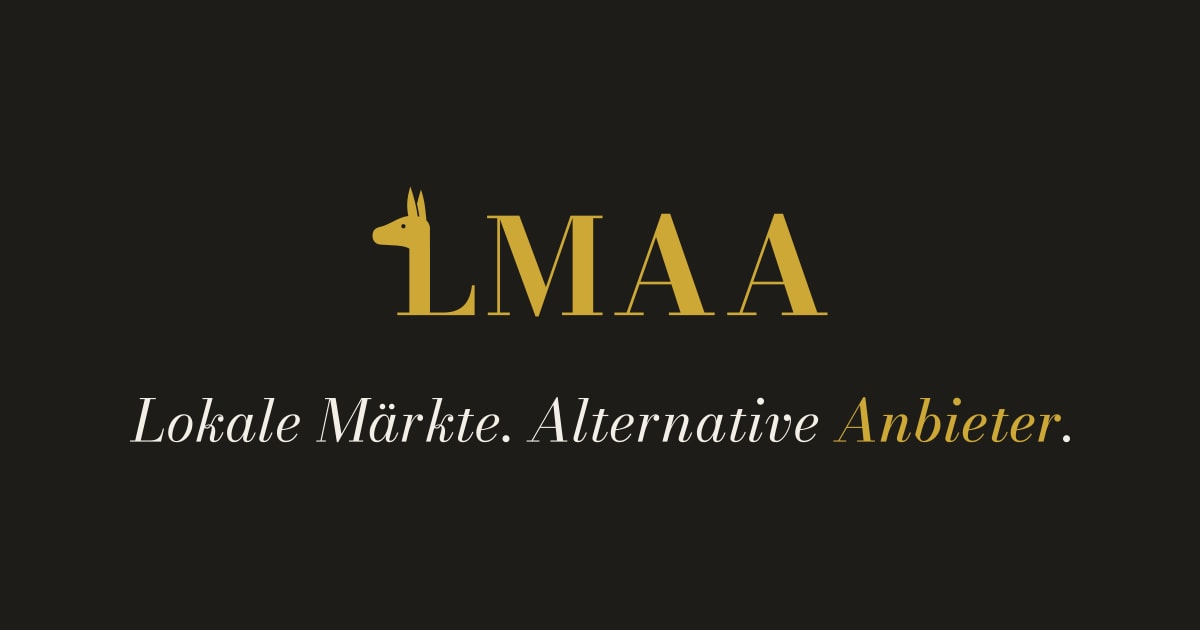
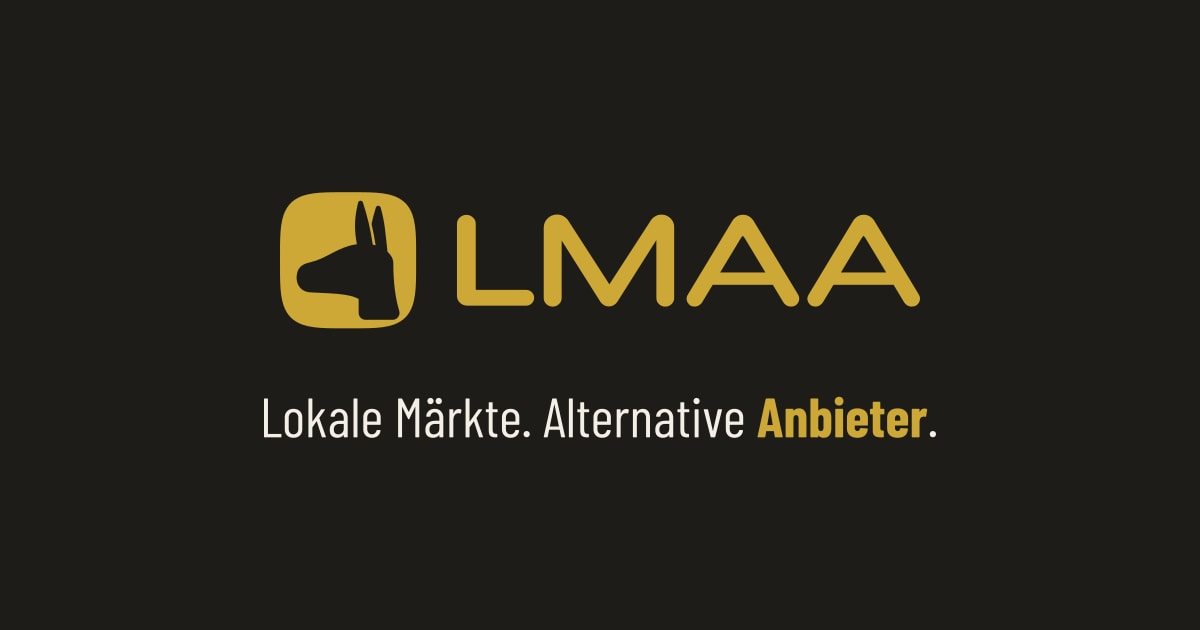
Feat: Shared links, emails and the README show the new wordmark over the hero's claim
- The default social image, the email masthead and the README's hero show the icon beside LMAA, over the claim
- The claim is drawn again in Barlow Condensed, 400 with the last word in 700, as the hero sets it, from the site's own font files
- The layouts take the hero's proportion at 1440 px: the claim about 1.05 times as wide as the wordmark, the gap 0.107 of its width
- Both drawings are boxed by their own ink, so the measurement of the wordmark's insets goes

Refs #444

Changed region(s): [[0.2158, 0.3016, 0.7708, 0.5429], [0.0925, 0.6333, 0.8942, 0.7238]]

diff --git a/packages/ui/src/assets/marks/README.md b/packages/ui/src/assets/marks/README.md
@@ -26,8 +26,8 @@ The llama's head is a drawing made of Bézier curves. The tips of its ears and t
 
 ## lmaa-claim.svg
 
-"Lokale Märkte. Alternative Anbieter." in Bodoni Moda italic, 400 with the last word in 500 and a letter spacing of 0.01 em. It was shaped by HarfBuzz from the files of `@fontsource/bodoni-moda` 5.3.0 and drawn with fontTools. The last word is its own path with the id `highlight`, so it can take a color of its own. The box is the letters' own, without any margin. The social image, the email masthead and the README's hero set it under the wordmark.
+"Lokale Märkte. Alternative Anbieter." upright in Barlow Condensed, 400 with the last word in 700, as the hero on the home page sets it. It was shaped by HarfBuzz from the site's own `barlow-condensed-400.woff2` and `barlow-condensed-700.woff2` in `apps/frontend/src/assets/fonts`, version 1.408, and drawn with fontTools. The last word is its own path with the id `highlight`, so it can take a color of its own. The box is the letters' own, without any margin. The social image, the email masthead and the README's hero set it under the wordmark.
 
 ## Fonts
 
-The letters of the wordmark are drawn from [Google Sans Flex](https://fonts.google.com/specimen/Google+Sans+Flex), and the llama's head and the claim are drawn after [Bodoni Moda](https://github.com/indestructible-type/Bodoni) by The Bodoni Moda Project Authors. Both are published under the SIL Open Font License 1.1. A logo or a graphic made from an OFL font is not subject to that license, and its maker holds its copyright, as [questions 1.1 and 1.1.1 of the OFL FAQ](https://openfontlicense.org/ofl-faq/) state.
+The letters of the wordmark are drawn from [Google Sans Flex](https://fonts.google.com/specimen/Google+Sans+Flex), and the claim from [Barlow Condensed](https://github.com/jpt/barlow) by The Barlow Project Authors. The llama's head is drawn after [Bodoni Moda](https://github.com/indestructible-type/Bodoni) by The Bodoni Moda Project Authors. All three are published under the SIL Open Font License 1.1. A logo or a graphic made from an OFL font is not subject to that license, and its maker holds its copyright, as [questions 1.1 and 1.1.1 of the OFL FAQ](https://openfontlicense.org/ofl-faq/) state.
